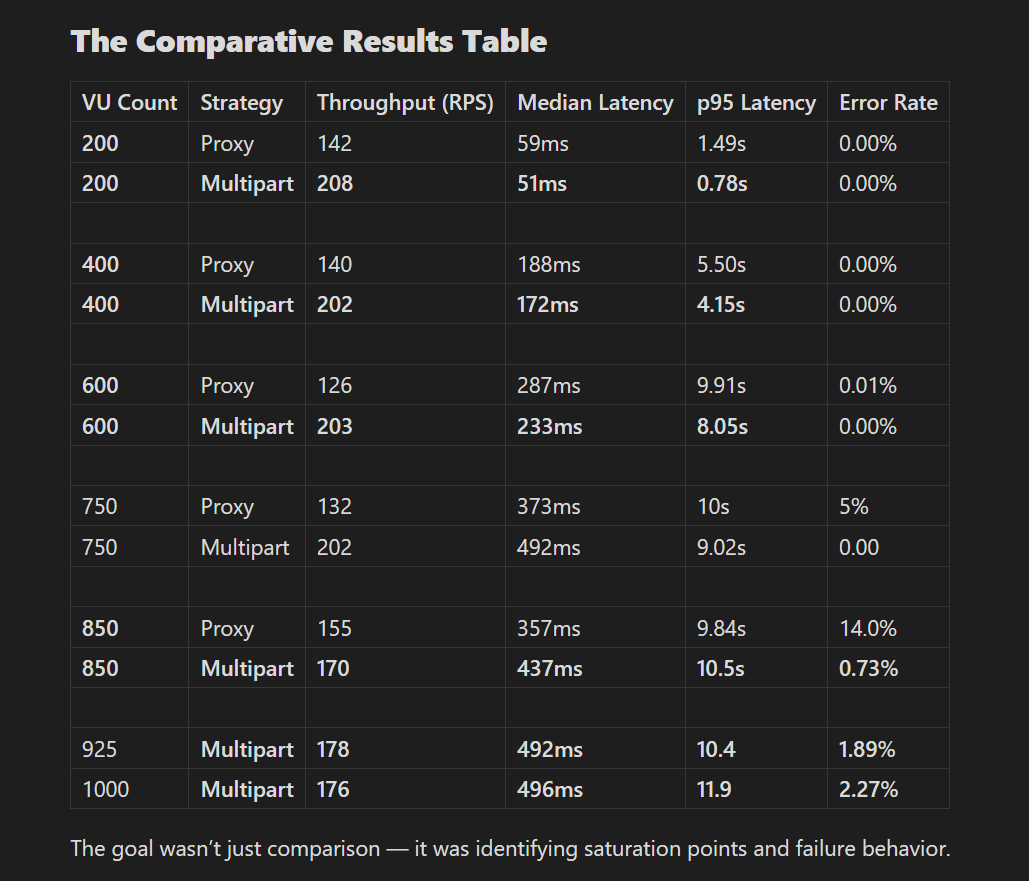
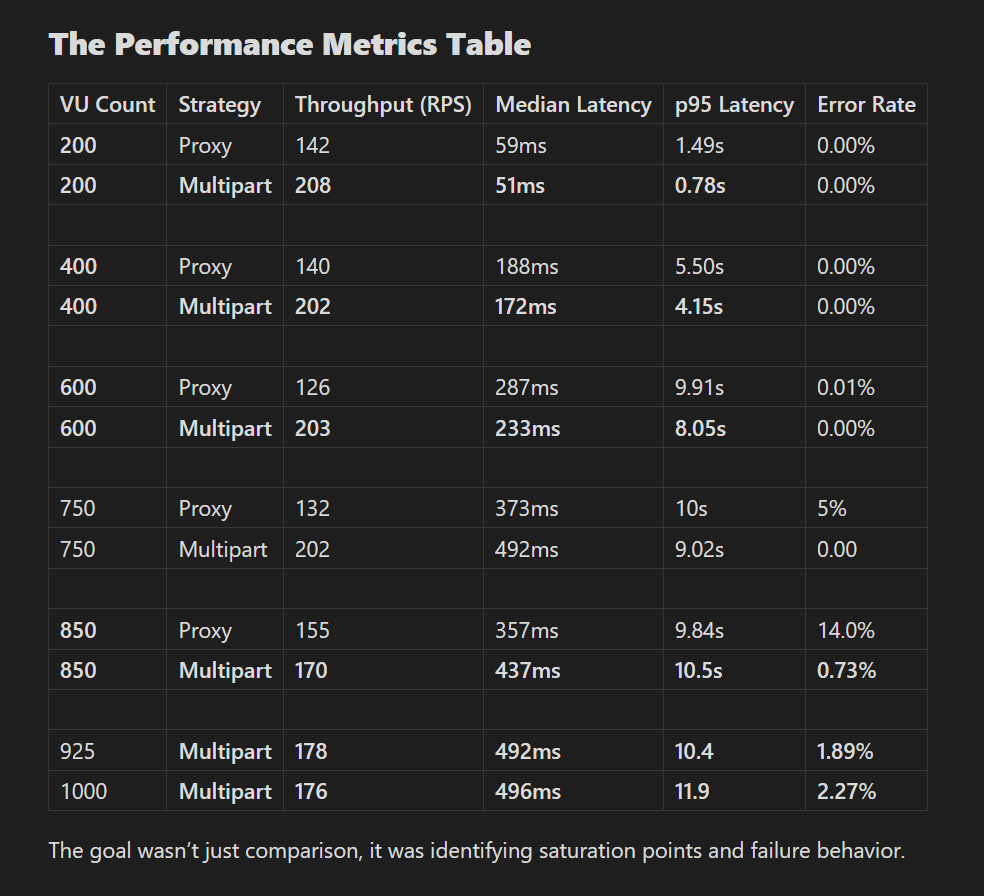
minor change

diff --git a/notes/Load-n-Stress-Test-Report.md b/notes/Load-n-Stress-Test-Report.md
@@ -276,7 +276,7 @@ While I used **Grafana** for real-time monitoring, I relied on **k6 CSV exports*
 
 ---
 
-## **FINALLY!! (after an eternity of yapping) - The Comparative Results Table**
+## **FINALLY!! (after an eternity of yapping) - The Performance Metrics Table**
 | **VU Count** | **Strategy**  | **Throughput (RPS)** | **Median Latency** | **p95 Latency** | **Error Rate** |
 | ------------ | ------------- | -------------------- | ------------------ | --------------- | -------------- |
 | **200**      | Proxy         | 142                  | 59ms               | 1.49s           | 0.00%          |
@@ -296,7 +296,7 @@ While I used **Grafana** for real-time monitoring, I relied on **k6 CSV exports*
 |              |               |                      |                    |                 |                |
 | 925          | **Multipart** | **178**              | **492ms**          | **10.4**        | **1.89%**      |
 | 1000         | **Multipart** | **176**              | **496ms**          | **11.9**        | **2.27%**      |
-The goal wasn’t just comparison — it was identifying saturation points and failure behavior.
+The goal wasn’t just comparison, it was identifying saturation points and failure behavior.
 
 ---
 
